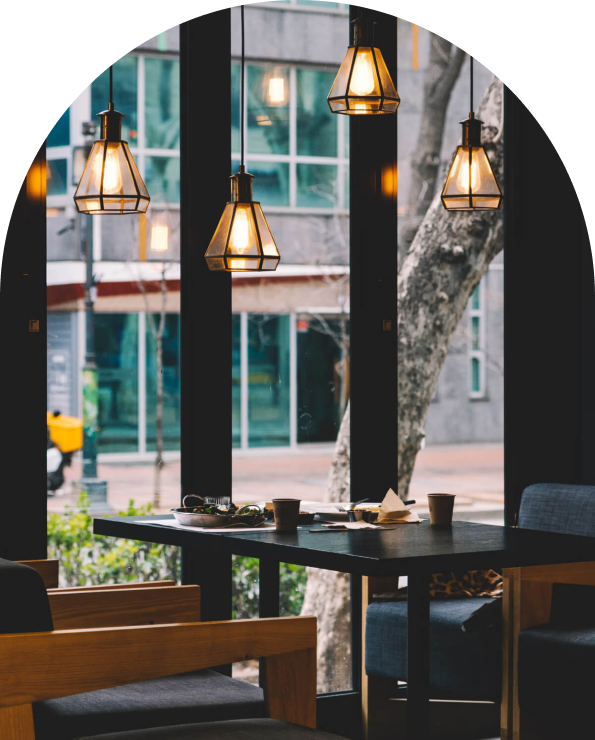
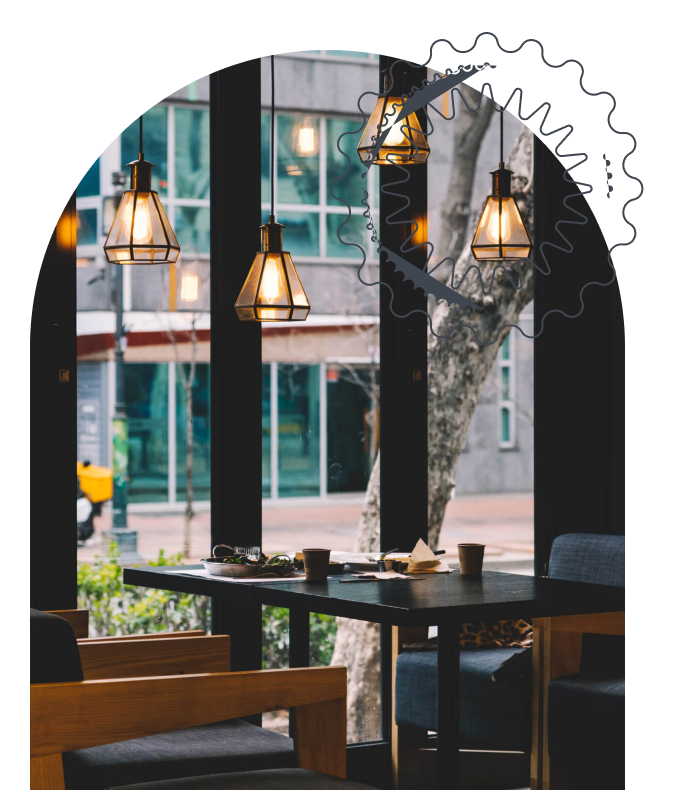
Create a main section

diff --git a/css/style.css b/css/style.css
@@ -186,4 +186,86 @@ h6 {
   margin-right: 7px;
 }
 
[1 lines of base64/hex data omitted]
+.main_section {
+  border: 3px dashed #5C6168;
+  padding: 60px 0px 0px 0px;
+  background-color: #292E36;
+}
+.main_section .main_section-container {
+  display: flex;
+  justify-content: space-between;
+  align-items: center;
+}
+.main_section .main_section-column {
+  width: 550px;
+}
+.main_section .main_section-title {
+  font-size: 100px;
+  font-family: "Cormorant Garamond", serif;
+  color: white;
+  padding: 0;
+  margin-top: -100px;
+}
+.main_section .main_section-text {
+  font-size: 20px;
+  font-family: "Josefin Sans", sans-serif;
+  color: white;
+}
+.main_section .main_section-btn {
+  font-size: 22px;
+  padding: 5px;
+  color: #E1B168;
+  border: 1px solid #E1B168;
+  width: 243px;
+  height: 62px;
+  text-align: center;
+  display: flex;
+  justify-content: center;
+  align-items: center;
+  font-family: "Josefin Sans", sans-serif;
+  margin-top: 70px;
+}
+.main_section .main_section-btn:hover {
+  transition: all 0.2s ease;
+  color: white;
+  border-radius: 15px;
+}
+.main_section .main_section-img {
+  position: relative;
+}
+.main_section img {
+  width: 600px;
+  height: 740px;
+}
+.main_section .main_section-img::before {
+  position: absolute;
+  content: "";
+  width: 574px;
+  height: 30px;
+  background-color: #36383c;
+  top: -60px;
+  left: 0px;
+  border: 1px solid black;
+}
+.main_section span {
+  position: absolute;
+  content: "";
+  width: 30px;
+  height: 770px;
+  background-color: #36383c;
+  top: -30px;
+  left: -30px;
+  border: 1px solid black;
+  text-shadow: 2px 2px #292E36;
+}
+.main_section .main_section-img::after {
+  position: absolute;
+  content: "";
+  width: 30px;
+  height: 770px;
+  background-color: #36383c;
+  top: -30px;
+  right: -3px;
+}
+
[1 lines of base64/hex data omitted]

diff --git a/sass/style.scss b/sass/style.scss
@@ -190,3 +190,91 @@ h6 {
     }
  
 }
+
+.main_section{
+    border: 3px dashed #5C6168;
+    padding: 60px 0px 0px 0px;
+    background-color: #292E36;
+    .main_section-container{
+        display: flex;
+        justify-content: space-between;
+        align-items: center;
+    }
+    .main_section-column{
+        width: 550px;
+    }
+    .main_section-title {
+        font-size: 100px;
+        font-family: 'Cormorant Garamond', serif;
+        color: white;
+        padding: 0;
+        margin-top: -100px;
+    }
+
+    .main_section-text {
+        font-size: 20px;
+        font-family: 'Josefin Sans', sans-serif;
+        color: white;
+    }
+
+    .main_section-btn {
+        font-size: 22px;
+        padding: 5px;
+        color: #E1B168;
+        border: 1px solid #E1B168;
+        width: 243px;
+        height: 62px;
+        text-align: center;
+        display: flex;
+        justify-content: center;
+        align-items: center;
+        font-family: 'Josefin Sans', sans-serif;
+        margin-top: 70px;
+        }
+        
+    .main_section-btn:hover {
+        transition: all 0.2s ease;
+        color: white;
+        border-radius: 15px;
+
+        }
+        .main_section-img{
+            position: relative;
+        }
+        img {
+            width: 600px;
+            height: 740px;
+        }
+        .main_section-img::before{
+            position: absolute;
+            content: "";
+            width: 574px;
+            height: 30px;
+            background-color: #36383c;
+            top: -60px;
+            left: 0px;
+            border: 1px solid black;
+        }
+        span{
+            position: absolute;
+            content: "";
+            width: 30px;
+            height: 770px;
+            background-color: #36383c;
+            top: -30px;
+            left: -30px;
+            border: 1px solid black;
+            text-shadow:2px 2px #292E36;
+        }
+        .main_section-img::after {
+            position: absolute;
+            content: "";
+            width: 30px;
+            height: 770px;
+            background-color: #36383c;
+            top: -30px;
+            right: -3px;
+        }
+    }
+
+

diff --git a/index.html b/index.html
@@ -43,4 +43,23 @@
             </div>
         </div>
     </div>
+    
+    <section class="main_section">
+        <div class="container">
+            <div class="main_section-container">
+                <div class="main_section-column">
+                    <p class="main_section-title">Welcome to</p>
+                    <p class="main_section-title">Restaurant</p>
+                    <p class="main_section-text">The people, food and the prime locations make 
+                    the perfect place good friends & family to come together and have great time.</p>
+                    <a class="main_section-btn" href="#">View Menu</a>
+                </div>
+
+                <div class="main_section-img">
+                    <span></span>
+                    <img src="/images/main_img/cafe.png">
+                </div>
+            </div>
+        </div>
+    </section>
 </html>
